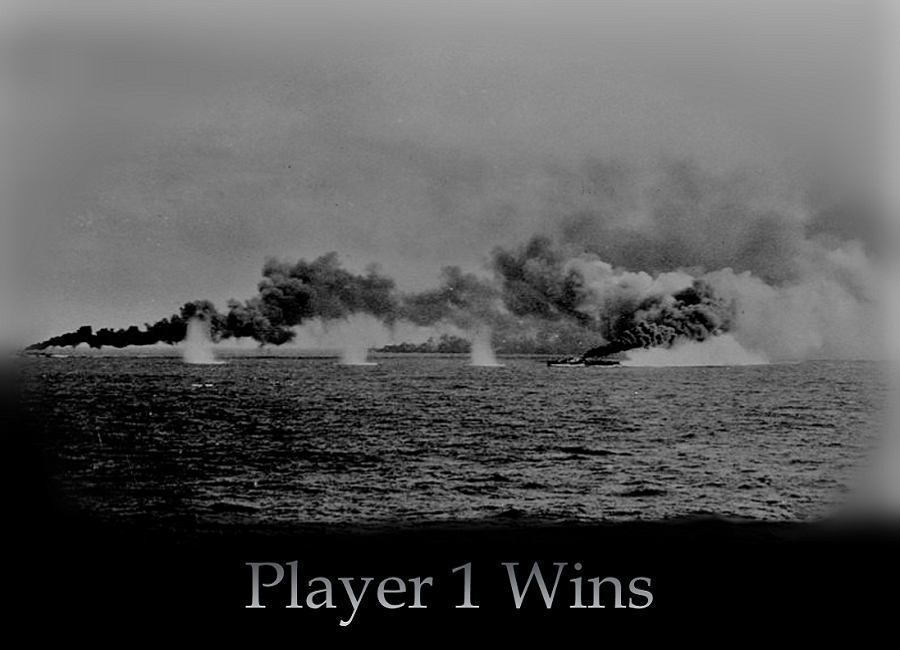
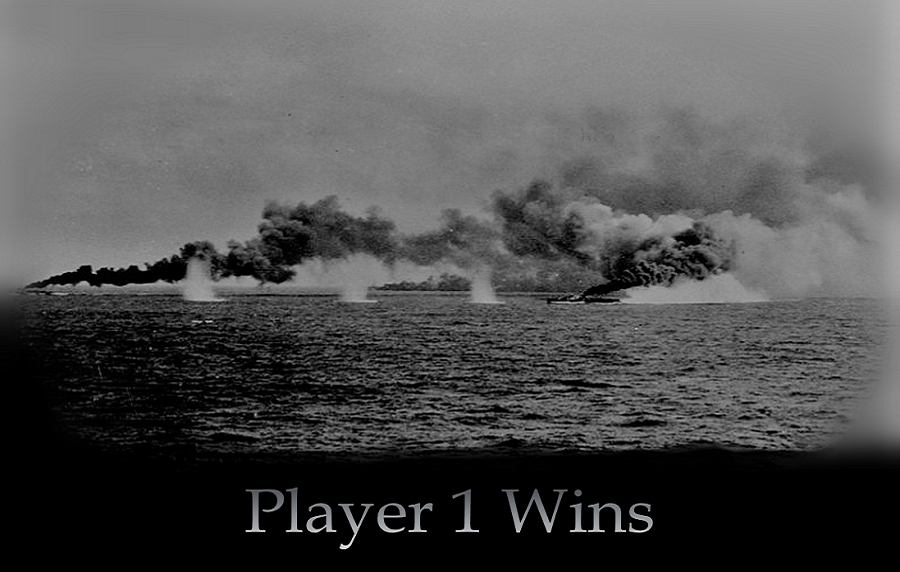
Fixed pictures

diff --git a/End.java b/End.java
@@ -17,7 +17,7 @@ public class End extends JPanel implements ActionListener
 			else if (who==2)
 				picture= new JLabel(new ImageIcon("P2Win.png"));;
 			
-			picture.setSize(900,615);
+			//picture.setSize(900,615);
 			this.add(picture);
 			this.setSize(900,615);
 			this.setLocation(0,0);
